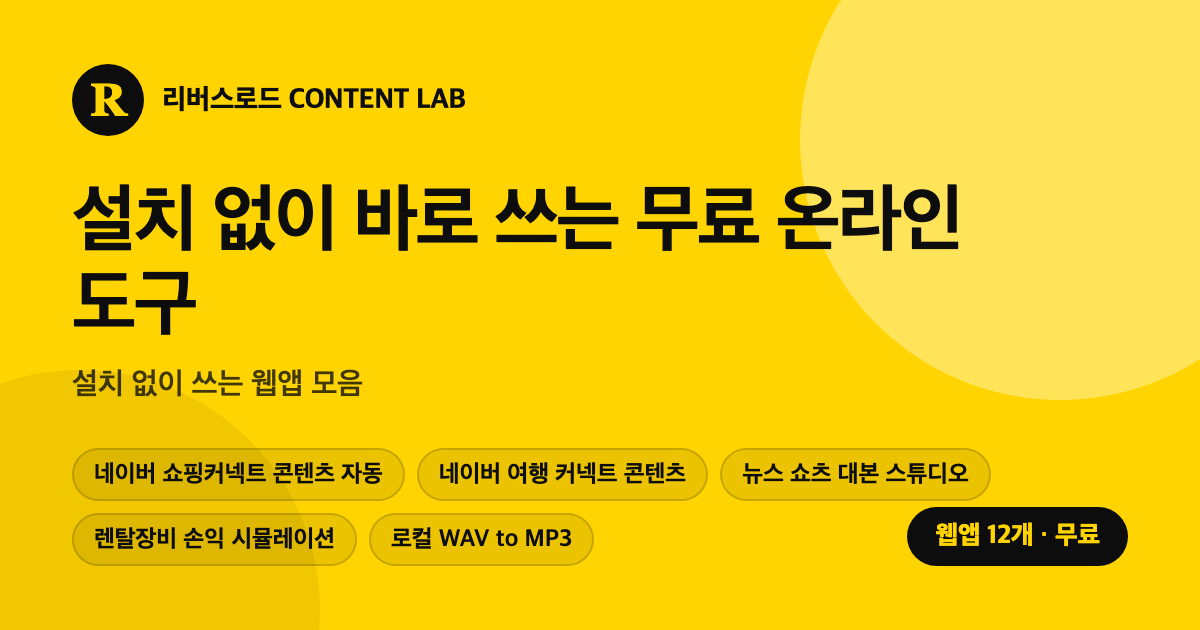
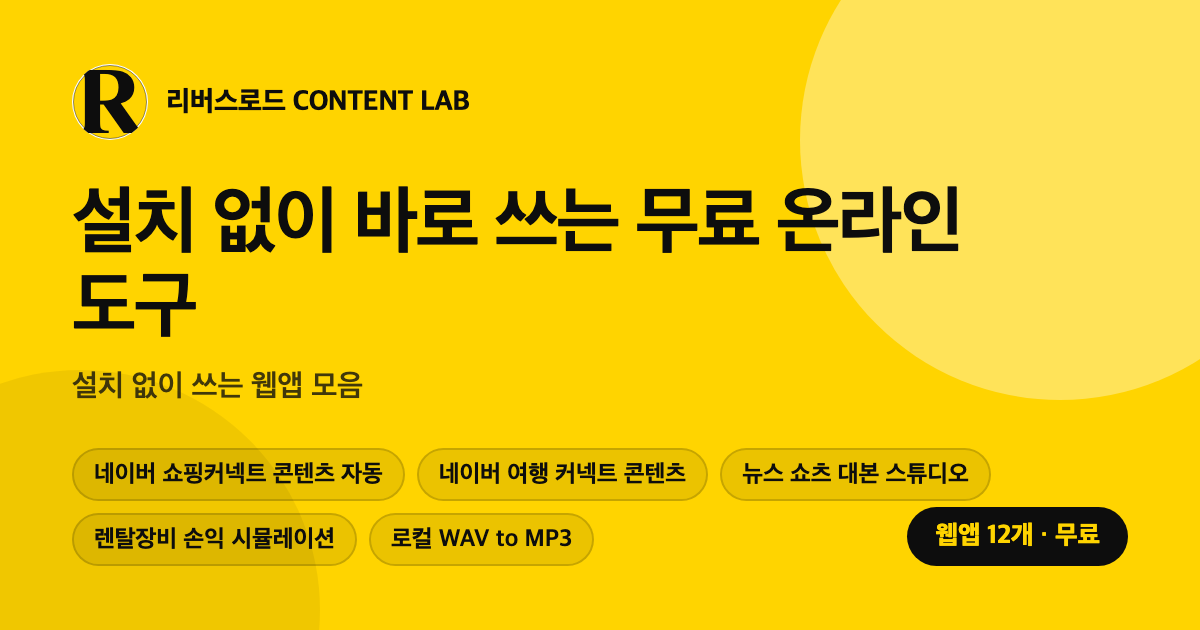
로고 교체: 노란 원 + 검은 세리프 R (첨부 이미지 기준)
- public/assets/logo.svg 를 확정 시안으로 다시 그림
  · 흰 바탕 + #FFD400 원(가는 검정 테두리) + 검정 Times New Roman Bold 'R'
  · 폰트 잉크 실측값으로 font-size/기준선을 계산해 R 잉크 폭 = 원 지름의 92%,
    잉크 중심을 원 중심에 맞춤 → 이전처럼 글자가 잘리거나 삐져나오지 않음
- public/assets/logo.png 512×512 재생성 (파비콘 · 애플터치 · 헤더 · 푸터 · 관리자 · 로그인)
- og-home.png / og-app.png 재생성: 공유 카드 헤더 마크를 실제 로고 SVG 로 교체
- 정적 복사되는 admin.html · login.html 로고 주소에도 내용 해시(?v=) 적용
  → 로고를 바꾸면 캐시 때문에 옛 로고가 남지 않음
- 라이브 확인: /assets/logo.png sha1 354f5be5 일치 · 파비콘/헤더/로그인/OG 모두 새 로고

diff --git a/tools/render-og.js b/tools/render-og.js
@@ -23,6 +23,10 @@ const PORT = 9362;
 const sleep = (ms) => new Promise((r) => setTimeout(r, ms));
 
 const site = JSON.parse(fs.readFileSync(path.join(ROOT, 'data', 'site.json'), 'utf8'));
+// 헤더 마크는 실제 로고(public/assets/logo.svg)를 그대로 씁니다.
+const logoSvg = fs.readFileSync(path.join(ROOT, 'public', 'assets', 'logo.svg'), 'utf8')
+  .replace(/<\?xml[^>]*\?>/, '')
+  .trim();
 const apps = JSON.parse(fs.readFileSync(path.join(ROOT, 'data', 'apps.json'), 'utf8')).filter((a) => !a.hidden);
 
 function esc(s) {
@@ -42,7 +46,8 @@ function page({ title, subtitle, chips, badge }) {
   .glow { position: absolute; right: -120px; top: -120px; width: 520px; height: 520px; border-radius: 50%; background: rgba(255,255,255,.35); }
   .glow2 { position: absolute; left: -160px; bottom: -220px; width: 480px; height: 480px; border-radius: 50%; background: rgba(0,0,0,.06); }
   header { display: flex; align-items: center; gap: 18px; position: relative; }
-  .mark { width: 72px; height: 72px; border-radius: 50%; background: #0D0D0D; color: #FFD400; display: grid; place-items: center; font: 700 46px/1 Georgia, "Times New Roman", serif; }
+  .mark { width: 76px; height: 76px; border-radius: 50%; overflow: hidden; background: #FFFFFF; display: block; flex: 0 0 auto; }
+  .mark svg { display: block; width: 76px; height: 76px; }
   .brand { font-size: 28px; font-weight: 800; letter-spacing: -0.01em; }
   main { position: relative; }
   h1 { font-size: 74px; line-height: 1.14; letter-spacing: -0.03em; max-width: 950px; }
@@ -52,7 +57,7 @@ function page({ title, subtitle, chips, badge }) {
   .badge { position: absolute; right: 72px; bottom: 64px; background: #0D0D0D; color: #FFD400; border-radius: 999px; padding: 14px 28px; font-size: 26px; font-weight: 800; }
 </style></head><body>
   <div class="glow"></div><div class="glow2"></div>
-  <header><span class="mark">R</span><span class="brand">${esc(site.name)}</span></header>
+  <header><span class="mark">${logoSvg}</span><span class="brand">${esc(site.name)}</span></header>
   <main><h1>${esc(title)}</h1><p class="sub">${esc(subtitle)}</p></main>
   <footer>${(chips || []).map((c) => `<span class="chip">${esc(c)}</span>`).join('')}</footer>
   ${badge ? `<div class="badge">${esc(badge)}</div>` : ''}

diff --git a/tools/export-static.js b/tools/export-static.js
@@ -20,6 +20,7 @@ const siteStore = require('../src/site');
 const build = require('../src/build');
 const { injectAppAds } = require('../src/miniapp-ads');
 const secrets = require('../src/secrets');
+const { assetUrl, resolveLogoName } = require('../src/assets');
 
 const ROOT = path.join(__dirname, '..');
 const PUBLIC_DIR = path.join(ROOT, 'public');
@@ -43,6 +44,17 @@ async function writeFile(rel, contents) {
   await fsp.mkdir(path.dirname(target), { recursive: true });
   await fsp.writeFile(target, contents, 'utf8');
   return target;
+}
+
+/** 정적 HTML 안의 로고 주소에 내용 해시(?v=)를 붙여 로고 교체가 즉시 반영되게 합니다. */
+async function copyHtmlWithLogoVersion(name) {
+  const from = path.join(PUBLIC_DIR, name);
+  const to = path.join(OUT, name);
+  let html = await fsp.readFile(from, 'utf8');
+  const href = assetUrl(resolveLogoName());
+  html = html.replace(/(src="|href=")\/assets\/logo\.[a-z]+(\?[^"]*)?/g, (m, attr) => `${attr}${href}`);
+  await fsp.mkdir(path.dirname(to), { recursive: true });
+  await fsp.writeFile(to, html, 'utf8');
 }
 
 async function copyFile(from, to) {
@@ -151,8 +163,8 @@ function injectAppHead(html, { app, site }) {
   written.push(await writeFile('_headers', build.HEADERS));
 
   // 관리자·로그인 화면도 함께 올립니다 (Worker 가 인증을 걸고 내려보냅니다)
-  await copyFile(path.join(PUBLIC_DIR, 'admin.html'), path.join(OUT, 'admin.html'));
-  await copyFile(path.join(PUBLIC_DIR, 'login.html'), path.join(OUT, 'login.html'));
+  await copyHtmlWithLogoVersion('admin.html');
+  await copyHtmlWithLogoVersion('login.html');
 
   // 그 밖의 public/ 최상위 파일(검색엔진 소유 확인 파일 등)도 그대로 올립니다.
   // 예: naver-site-verification, google-site-verification, BingSiteAuth.xml
